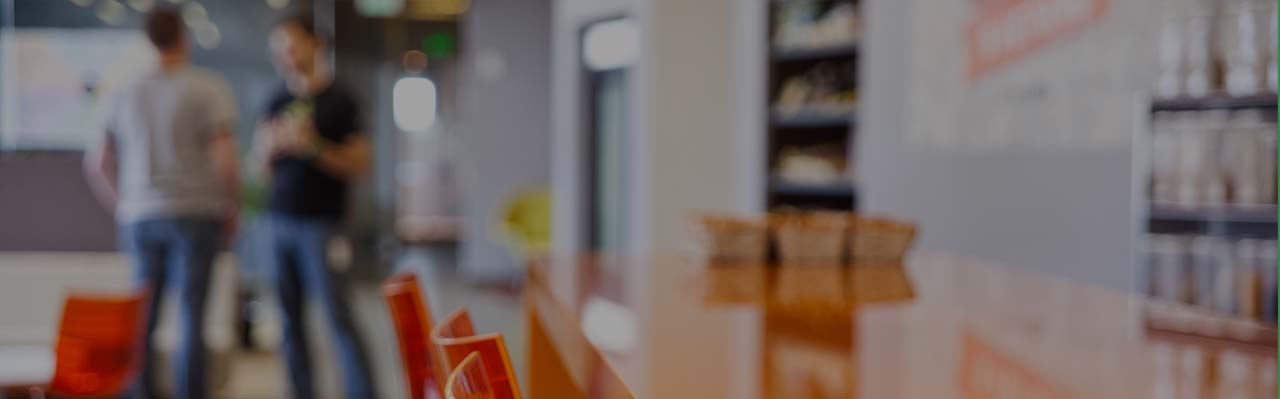
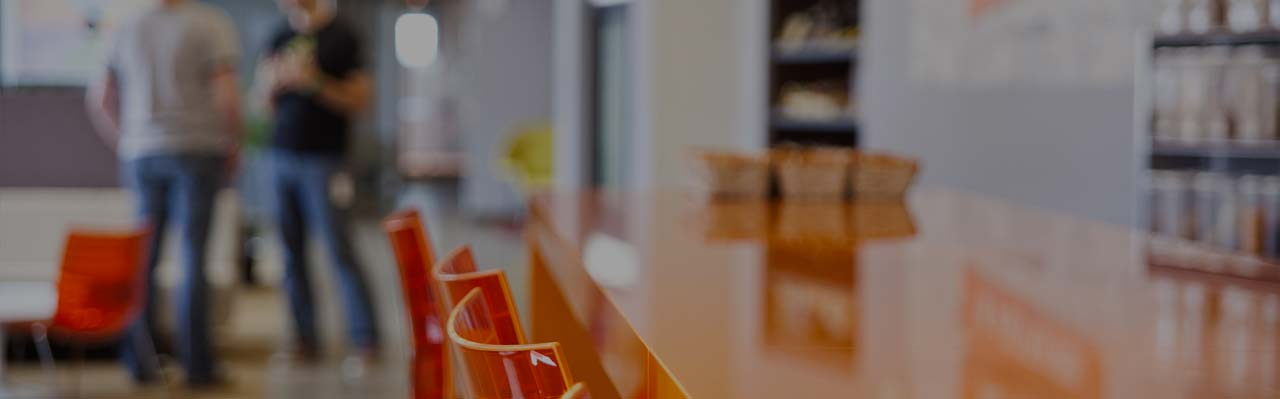
932032 & 931902 - background sizes
Fix bug 932032, Fix bug 931902. Added breakpoint at 1680 for large background images, fixed typo on listings background.

diff --git a/careers/careers/static/css/careers.css b/careers/careers/static/css/careers.css
@@ -205,7 +205,11 @@
     #splash { background-image: url(/static/img/careers-banner-1280.jpg); }
 }
 
-@media (min-width: 1281px) {
+@media (min-width: 921px) and (max-width: 1680px) {
+    #splash { background-image: url(/static/img/careers-banner-1680.jpg); }
+}
+
+@media (min-width: 1680px) {
     #splash { background-image: url(/static/img/careers-banner-2560.jpg); }
 }
 
@@ -2179,8 +2183,7 @@
         position: relative;
         display: block;
         height: 540px;
-        background: #292324 url(/static/img/next-920.jpg) top right;
-        background-size: cover;
+        background: #292324 top right;
         color: #fff;
     }
 
@@ -2229,7 +2232,6 @@
 @media (min-width: 921px) {
     #next-teaser {
         height: 640px;
-        background: #292324 url(/static/img/next-1280.jpg) top right;
     }
 
         #next.pin #next-teaser {
@@ -2276,9 +2278,36 @@
 
 }
 
+/* backgrounds */
+
+
+@media (min-width: 681px) {
+    #next-teaser {
+        background-image: url(/static/img/next-920.jpg);
+    }
+}
+
+@media (min-width: 921px) {
+    #next-teaser {
+        background-image: url(/static/img/next-1280.jpg);
+    }
+}
+
 @media (min-width: 1281px) {
     #next-teaser {
-        background: #292324 url(/static/img/next-2560.jpg) top right;
+        background-image: url(/static/img/next-1680.jpg);
+    }
+}
+
+@media (min-width: 1681px) {
+    #next-teaser {
+        background-image: url(/static/img/next-2560.jpg);
+    }
+}
+
+@media (min-width: 2561px) {
+    #next-teaser {
+        background-position: center top;
     }
 }
 

diff --git a/careers/careers/static/css/listings.css b/careers/careers/static/css/listings.css
@@ -499,3 +499,15 @@
         }
 
 }
+
+@media (min-width: 1281px) {
+    #listings-intro {
+        background-image: url(/static/img/listings-banner-1680.jpg);
+    }
+}
+
+@media (min-width: 1681px) {
+    #listings-intro {
+        background-image: url(/static/img/listings-banner-2560.jpg);
+    }
+}
